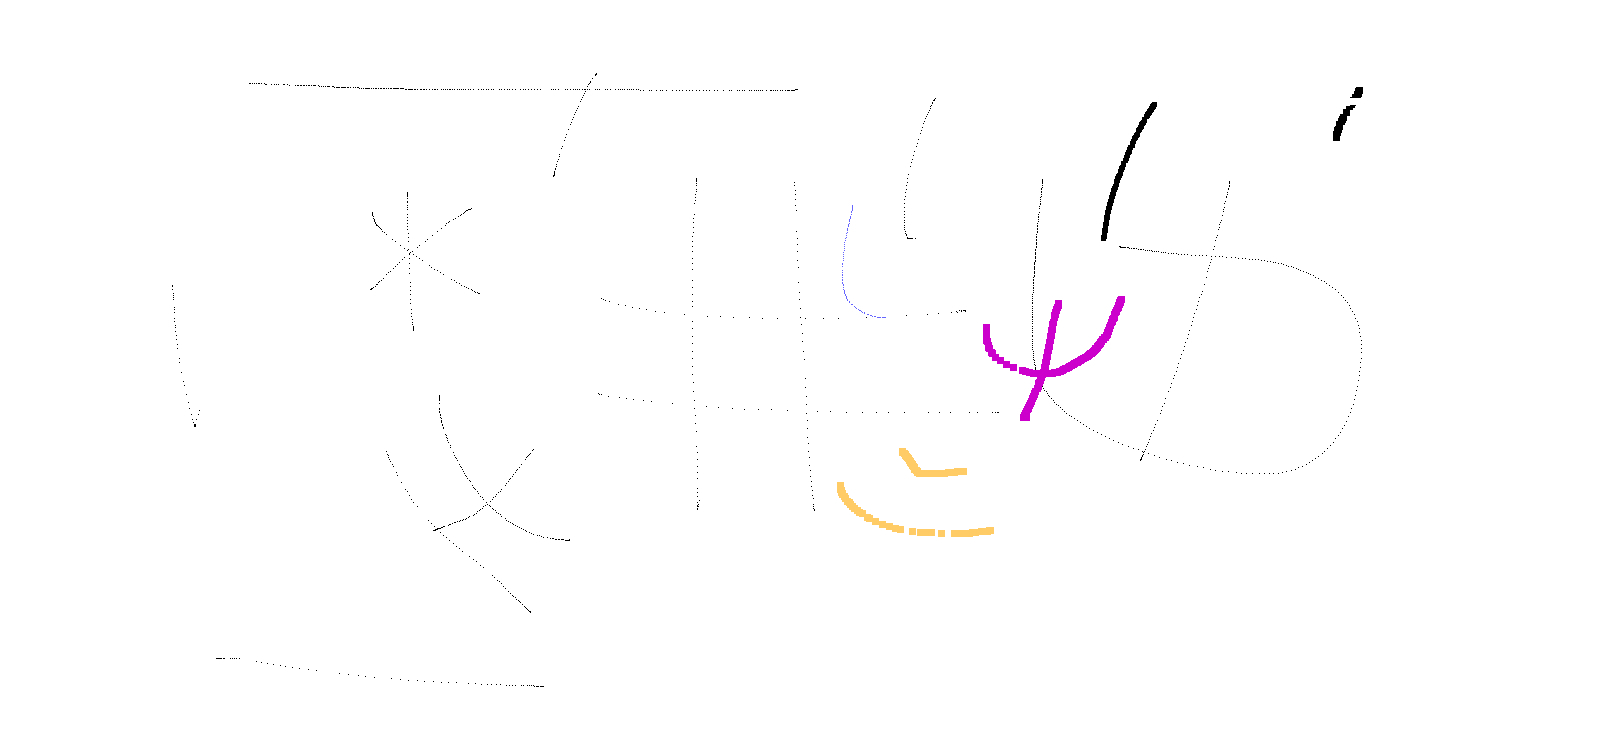
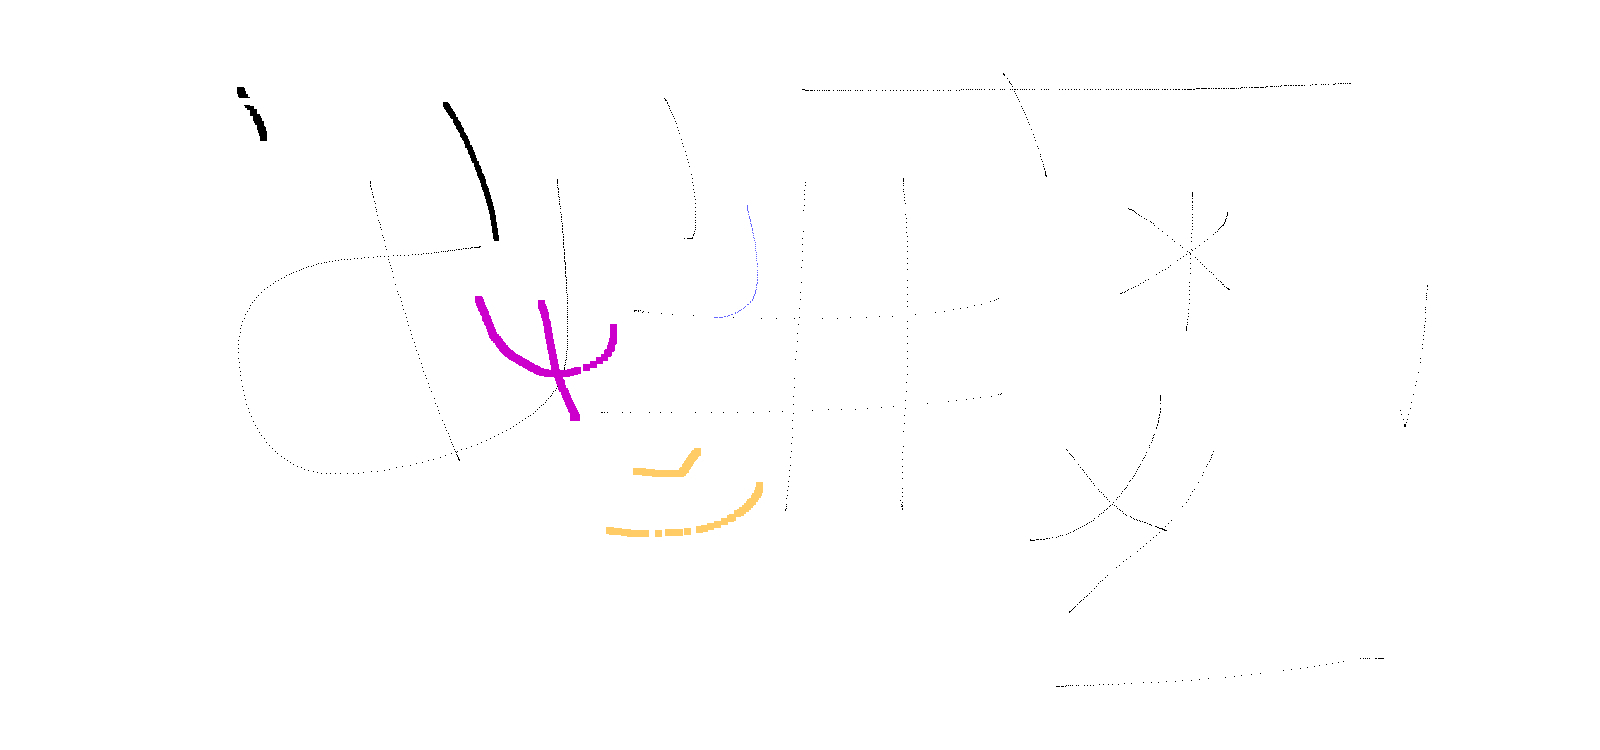
Implemented reflections into the GUI, still buggy

diff --git a/src/Panels/ImagePanel.java b/src/Panels/ImagePanel.java
@@ -40,6 +40,7 @@ public class ImagePanel extends JPanel implements MouseMotionListener, MouseList
 	int lastXCoord = -20;
 	int lastYCoord = -20;
 	int pixelSize = 3;
+	boolean isFiltered = false;
 	
 	public ImagePanel(EditorFrame parent, String imageName) {
 		this.parent = parent;
@@ -114,7 +115,7 @@ public class ImagePanel extends JPanel implements MouseMotionListener, MouseList
 					e.printStackTrace();
 				}
 			}
-			update(false);
+			update(false, currentImageName);
 			FileWriter updateWriter = new FileWriter(System.getProperty("user.dir")+"\\resources\\checkUpdate.txt");
 			updateWriter.write("0");
 			updateWriter.close();
@@ -125,7 +126,7 @@ public class ImagePanel extends JPanel implements MouseMotionListener, MouseList
 	}
 	
 	public void saveAsImage(String newName, boolean justSave, boolean isTemp) {
-		if (coords.size() == 0) {
+		if (coords.size() == 0 && !isFiltered) {
 			return;
 		}
 		else {
@@ -137,8 +138,9 @@ public class ImagePanel extends JPanel implements MouseMotionListener, MouseList
 				String temp = "";
 				for (int i = currentImageName.length()-1; i > 0; i--) {
 					if (currentImageName.charAt(i) == '\\' || currentImageName.charAt(i) == '/') {
-						if (isTemp) {
+						if (isTemp || isFiltered) {
 							finalLine += "temp/" + temp + "\n";
+							isFiltered = false;
 						}
 						else {
 							finalLine += "images/" + temp + "\n";
@@ -198,7 +200,7 @@ public class ImagePanel extends JPanel implements MouseMotionListener, MouseList
 						e.printStackTrace();
 					}
 				}
-				update(justSave);
+				update(justSave, currentImageName);
 				FileWriter updateWriter = new FileWriter(System.getProperty("user.dir")+"\\resources\\checkUpdate.txt");
 				updateWriter.write("0");
 				updateWriter.close();
@@ -210,20 +212,20 @@ public class ImagePanel extends JPanel implements MouseMotionListener, MouseList
 		}
 	}
 	
-	public void update(boolean justSave) {
+	public void update(boolean justSave, String name) {
 		ImageIcon temp = null;
 		if (justSave) {
-			for (int i = currentImageName.length()-1; i > 0; i--) {
-				if (currentImageName.charAt(i) == '\\' || currentImageName.charAt(i) == '/'){
-					temp = new ImageIcon(currentImageName.substring(0, i-6)+"\\temp\\"+currentImageName.substring(i));
+			for (int i = name.length()-1; i > 0; i--) {
+				if (name.charAt(i) == '\\' || name.charAt(i) == '/'){
+					temp = new ImageIcon(name.substring(0, i-6)+"\\temp\\"+name.substring(i));
 					break;
 				}
 			}
 		}
 		else {
-			temp = new ImageIcon(currentImageName);
+			temp = new ImageIcon(name);
 		}
-		image = new ImageIcon(currentImageName);
+		image = new ImageIcon(name);
 		imageLabel.setVisible(false);
 		this.remove(imageLabel);
 		imageLabel = new JLabel(temp);
@@ -282,7 +284,7 @@ public class ImagePanel extends JPanel implements MouseMotionListener, MouseList
 					temp = currentImageName.charAt(i) + temp;
 				}
 			}
-			if (isTemp) {
+			if (isTemp || isFiltered) {
 				finalLine += "1";
 			}
 			else {
@@ -291,37 +293,46 @@ public class ImagePanel extends JPanel implements MouseMotionListener, MouseList
 			writer.write(finalLine);
 			writer.close();
 			
-//			// Run the C++ Program
-//			Runtime rt = Runtime.getRuntime();
-//			rt.exec("cmd.exe /c start wsl ./flipHorizontal.out", null, new File(System.getProperty("user.dir")+"\\resources"));
-//			coords.clear();
-//			this.repaint();
-//			
-//			// Update currentImageName
-//			currentImageName = System.getProperty("user.dir")+"\\resources\\temp\\"+temp;
-//			
-//			// Update ImageLabel
-//			while(!canSave) {
-//				try {
-//					FileReader reader = new FileReader(System.getProperty("user.dir")+"\\resources\\checkUpdate.txt");
-//					int data = reader.read();
-//					if ((char)data == '1') {
-//						reader.close();
-//						canSave = true;
-//					}
-//				} catch (FileNotFoundException e) {
-//					System.out.println("Problem opening update file");
-//					e.printStackTrace();
-//				} catch (IOException e) {
-//					System.out.println("Problem reading update file");
-//					e.printStackTrace();
-//				}
-//			}
-//			update(false);
-//			FileWriter updateWriter = new FileWriter(System.getProperty("user.dir")+"\\resources\\checkUpdate.txt");
-//			updateWriter.write("0");
-//			updateWriter.close();
-//			canSave = false;
+			// Run the C++ Program
+			Runtime rt = Runtime.getRuntime();
+			rt.exec("cmd.exe /c start wsl ./flipHorizontal.out", null, new File(System.getProperty("user.dir")+"\\resources"));
+			coords.clear();
+			this.repaint();
+			
+			// Update currentImageName
+			currentImageName = System.getProperty("user.dir")+"\\temp\\" + temp;
+			
+			// Update ImageLabel
+			while(!canSave) {
+				try {
+					FileReader reader = new FileReader(System.getProperty("user.dir")+"\\resources\\checkUpdate.txt");
+					int data = reader.read();
+					if ((char)data == '1') {
+						reader.close();
+						canSave = true;
+					}
+				} catch (FileNotFoundException e) {
+					System.out.println("Problem opening update file");
+					e.printStackTrace();
+				} catch (IOException e) {
+					System.out.println("Problem reading update file");
+					e.printStackTrace();
+				}
+			}
+			
+			// TODO
+			BufferedReader nameReader = new BufferedReader(new FileReader(System.getProperty("user.dir")+"\\resources\\changes.txt"));
+			String tempName = System.getProperty("user.dir")+"\\resources\\" + nameReader.readLine();
+			nameReader.close();
+			
+			if (!isFiltered) {
+				isFiltered = true;
+			}
+			update(false, tempName);
+			FileWriter updateWriter = new FileWriter(System.getProperty("user.dir")+"\\resources\\checkUpdate.txt");
+			updateWriter.write("0");
+			updateWriter.close();
+			canSave = false;
 		} catch (IOException e) {
 			System.out.println("Error writing to change file or updating update file");
 		}

diff --git a/src/Frames/EditorFrame.java b/src/Frames/EditorFrame.java
@@ -181,6 +181,7 @@ public class EditorFrame extends JFrame implements ActionListener, ComponentList
 	
 	public void flipHorizontal() {
 		image.flipHorizontal(isTemp);
+		updateTitle(saved);
 	}
 	
 	public void flipVertical() {
@@ -280,8 +281,6 @@ public class EditorFrame extends JFrame implements ActionListener, ComponentList
 			}
 		}
 	}
-	
-	
 	
 	@Override
 	public void actionPerformed(ActionEvent e) {

diff --git a/src/Panels/FilterPanel.java b/src/Panels/FilterPanel.java
@@ -68,9 +68,11 @@ public class FilterPanel extends JPanel implements ActionListener{
 	public void actionPerformed(ActionEvent e) {
 		// TODO
 		if (e.getSource() == flipHorizontal) {
+			parent.setSaved(false);
 			parent.flipHorizontal();
 		}
 		else if (e.getSource() == flipVertical) {
+			parent.setSaved(false);
 			parent.flipVertical();
 		}
 	}

diff --git a/resources/flipHorizontal.cpp b/resources/flipHorizontal.cpp
@@ -143,6 +143,7 @@ int main(){
     string newName;
     for (int i = 0; i < imageName.length(); i++){
         if (imageName[i] == '/' || imageName[i] == '\\'){
+            // TODO
             if (isTemp){
                 newName = "temp/temp"+imageName.substr(i+1,imageName.length()-i);
             }

diff --git a/resources/flipVertical.cpp b/resources/flipVertical.cpp
@@ -143,6 +143,7 @@ int main(){
     string newName;
     for (int i = 0; i < imageName.length(); i++){
         if (imageName[i] == '/' || imageName[i] == '\\'){
+            // TODO
             if (isTemp){
                 newName = "temp/temp"+imageName.substr(i+1,imageName.length()-i);
             }
